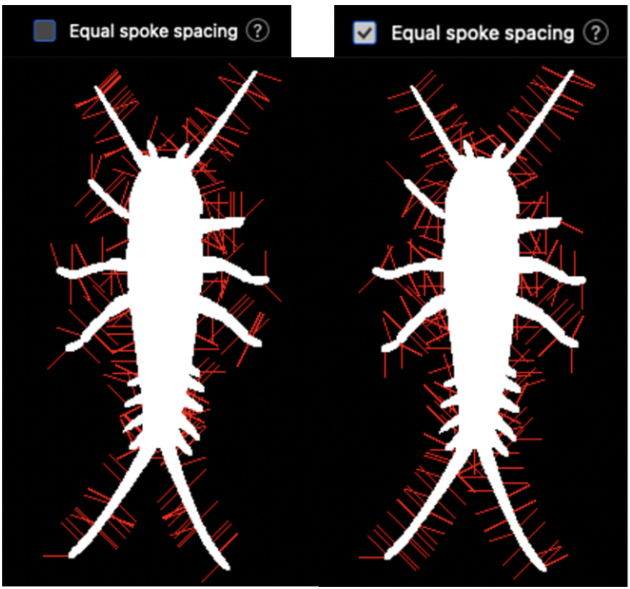
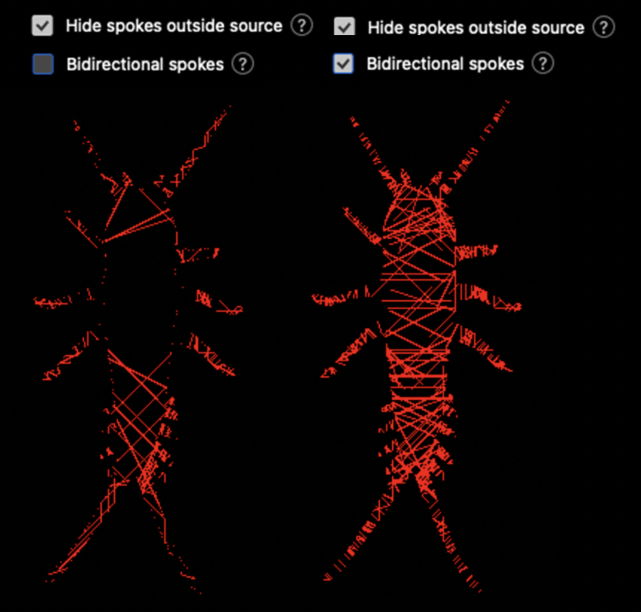
tmp

diff --git a/pages/5-3-radial.md b/pages/5-3-radial.md
@@ -8,17 +8,13 @@ This effect is similar to "Tangent Lines" but rather than drawing lines which fo
 
 ![img](/images/radial-1.png)
 
-Many of the controls will be familiar from the Tangent Lines effect. For example here I've decreased Line Length, increased density by lowering Spacing, and offset from center:
+Most of the controls are the same as with Tangent Lines:
 
 ![img](/images/radial-2.png)
 
-"Equal Spoke Spacing" attempts to space the lines equally from one another (alas, it is still imperfect - a potential area of improvement):
+Note that by default, Radial Spokes are only drawn _outward_ from the shape, so "Hide Spokes Outside Source" might not show too much. You can enable "Bidirectional Spokes" to fix this:
 
 ![img](/images/radial-3.png)
-
-As with Tangent Lines, there are options to control how the generated lines feed into the output:
-
-![img](/images/radial-4.png)
 
 "Corner Filter" (adjusted with "Corner Sensitivity") can be used to only show lines at areas with high curvature. Applying a bit of blur beforehand can smooth out surface noise and produce a cleaner result here:
 
@@ -27,5 +23,9 @@ As with Tangent Lines, there are options to control how the generated lines feed
 Note that by default, lines are produced at both convex and concave curves. This can be adjusted using the "Corner Side Filter" settings:
 
 ![img](/images/radial-6.png)
+
+Neat 👍
+
+![img](/images/radial-7.png)
 
 [Next: Radial Spokes](/pages/5-4-hatching.md)
